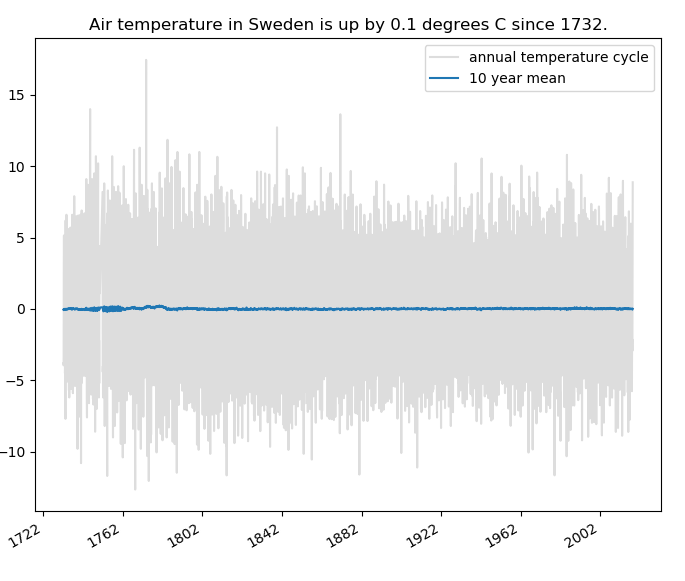
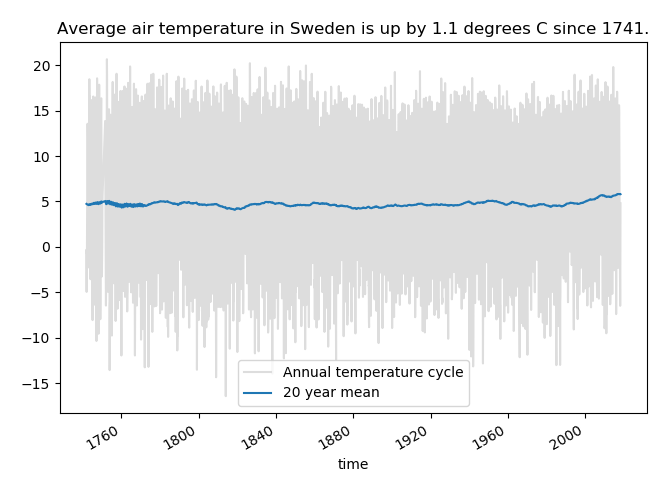
Adjust temperature based on altitude and latitude
Before adjustment calculations it looked like temperature had been going
down in the last 30 decades in Sweden, but now it's clearer that that is
not the case.

diff --git a/climate_check.py b/climate_check.py
@@ -1,4 +1,5 @@
 #!/usr/bin/env python3
+# -*- coding:utf-8 -*-
 
 import argparse
 import calendar
@@ -10,6 +11,7 @@ from matplotlib.ticker import FuncFormatter
 import os
 import numpy as np
 import pandas as pd
+from sklearn.linear_model import LinearRegression
 import requests
 from urllib.request import urlretrieve
 
@@ -17,14 +19,10 @@ from urllib.request import urlretrieve
 data_path = 'smhi_data/'
 smhi_stations_url = 'https://opendata-download-metobs.smhi.se/api/version/1.0/parameter/22.json'
 banner = '''
-Climate check v0.2 using SMHI air temperature data.
+Climate check v0.3 using SMHI air temperature data.
 
   This check might be considered unscientific as I am only using Swedish air temperature,
   not world-wide air and ocean temperatures.
-
-  In the annual cycle plot I do not account for variations in weather station placements.
-  Some will be placed in high altitude, some way up north, some way down south. This graph
-  needs more work.
 
   On the other hand, we can be pretty sure it hasn't been tampered with, as whistle
   blower and 2014 U.S. Department of Commerce Gold Medal winner John Bates exposed
@@ -58,24 +56,66 @@ def download_data():
 
 
 def load_smhi_csv(fn):
-    '''Load CSV temperature data in SMHI's format. The format is not very specific, so using brute force.'''
+    '''Load single CSV, containing historical temperature data for a single station, in SMHI's
+       format. The format is not very specific, so using brute force.
+
+       This function returns the station name, its historical temperatures and some meta data,
+       such as altitude, latitude and longitude.
+       '''
     lines = open(fn, encoding='utf-8-sig').read().splitlines()
     location = lines[1].split(';')[0] # name of place on second row, first column
+    altitude = latitude = longitude = None
+    prevline = ''
     for line in lines[3:]:
         cols = line.split(';')
         try:
+            if 'longitud' in prevline.lower():
+                altitude,latitude,longitude = [float(c) for c in cols[-3:]]
             time,temp = cols[0], cols[3]
             if not time and not temp:
                 continue # just ignore missing data points
             date,_,_ = time.partition(' ') # pick date
+            temp = float(temp)
             times.append(date)
-            temps.append(float(temp))
+            temps.append(temp)
         except Exception as e:
             times = []
             temps = []
+        prevline = line
     times = pd.DatetimeIndex(times).tz_localize('Europe/Stockholm', ambiguous=True)
     df = pd.DataFrame({'temp':temps}, index=times)
-    return location, df
+    return { 'station': location,
+             'temperature': df,
+             'altitude': altitude,
+             'latitude': latitude,
+             'longitude': longitude, }
+
+
+def largest_consecutive_block(ser):
+    sparse = ser.to_sparse()
+    block_locs = list(zip(sparse.sp_index.blocs, sparse.sp_index.blengths))
+    if not block_locs:
+        return ser.iloc[:0]
+    largest = max(block_locs, key=lambda e:e[1])
+    i,l = largest
+    return ser.iloc[i:(i+l-1)]
+
+
+def pos_adjust_temp(df, pos_corr):
+    '''Adjust temperatures based on linear regression of altitude and latitude.'''
+    reg = LinearRegression()
+    reg.fit(pos_corr[['altitude','latitude']], pos_corr['avg_temp'])
+    c_altitude,c_latitude = reg.coef_
+    c_altitude = min(0.0, c_altitude) # altitude correlates negatively, or not at all
+    c_latitude = min(0.0, c_latitude) # latitude correlates negatively, or not at all
+    adj_temp = df['temp'].copy()
+    avg_alt = df['altitude'].mean()
+    avg_lat = df['latitude'].mean()
+    # remove the correlation, so when there are more stations in the north, the temperature
+    # will be adjusted upwards, and vice versa
+    adj_temp -= (df['altitude']-avg_alt) * c_altitude
+    adj_temp -= (df['latitude']-avg_lat) * c_latitude
+    return adj_temp
 
 
 def load_data(options):
@@ -87,20 +127,37 @@ def load_data(options):
     total = pd.DataFrame(index=months) # the combined data for all measurements
     total['temp'] = 0.0
     total['tempnum'] = 0
+    total['altitude'] = 0.0
+    total['latitude'] = 0.0
+    total['longitude'] = 0.0
     total['diff'] = 0.0
     total['diffnum'] = 0
+    pos_corr = pd.DataFrame(columns=['avg_temp','altitude','latitude']) # adjust for altitude and latitude
     globs = glob(data_path+'*.csv')
     for i,fn in enumerate(globs):
         if options.quick_test and i > 50:
             break
-        title,df = load_smhi_csv(fn)
-        print('\r  %i %%  %s                 ' % (100*i//len(globs), title), end='', flush=True)
+        res = load_smhi_csv(fn)
+        title = res['station']
+        df = res['temperature']
+        print('\r  %i%%  %s                   ' % (100*(i+1)//len(globs), title), end='', flush=True)
         # absolute temperatures, for annual comparison
         total['raw'] = np.nan
         total['raw'] = df['temp']
         has_data = total['raw'] > -1e3
         total.loc[has_data, 'temp'] += total['raw']
         total.loc[has_data, 'tempnum'] += 1
+        # add meta data on positions where we have temperature data
+        total.loc[has_data, 'altitude'] += res['altitude']
+        total.loc[has_data, 'latitude'] += res['latitude']
+        total.loc[has_data, 'longitude'] += res['longitude']
+        # correct for altitude and latitude
+        longtemp = largest_consecutive_block(total['raw'])
+        if len(longtemp) >= 12: # need at least a year
+            l = len(longtemp)
+            l -= l%12 # average temperature requires an even number of years
+            longtemp = longtemp.iloc[:l]
+            pos_corr.loc[len(pos_corr)] = longtemp.mean(), res['altitude'], res['latitude']
         # add difference for total time comparison (as temperatures will vary north to south)
         total['raw'] = np.nan
         total['raw'] = df['temp'].diff()
@@ -109,17 +166,21 @@ def load_data(options):
         total.loc[has_data, 'diffnum'] += 1
     total['diff'] /= total['diffnum']
     total['temp'] /= total['tempnum']
+    total['altitude'] /= total['tempnum']
+    total['latitude'] /= total['tempnum']
+    total['longitude'] /= total['tempnum']
     print('\n  %i stations counted.' % len(globs))
+    total['adjusted_temp'] = pos_adjust_temp(total, pos_corr)
     return total
 
 
 def plot_total_time(df):
-    df = df.dropna(subset=['diff']).copy()
-    df['Annual temperature cycle'] = df['diff'] + df['temp'].mean()
-    df['10 year mean'] = df['10yr'] = df['Annual temperature cycle'].rolling(10*12).mean()
-    df = df.dropna(subset=['10yr'])
-    start_mean_temp = df['10yr'].iloc[0]
-    end_mean_temp = df['10yr'].iloc[-1]
+    df = df.dropna(subset=['adjusted_temp']).copy()
+    df['Annual temperature cycle'] = df['adjusted_temp']
+    df['20 year mean'] = df['20yr'] = df['Annual temperature cycle'].rolling(20*12).mean()
+    df = df.dropna(subset=['20yr'])
+    start_mean_temp = df['20yr'].iloc[0]
+    end_mean_temp = df['20yr'].iloc[-1]
     temp_diff = end_mean_temp - start_mean_temp
     date = str(df.index[0])
     date = date.split('-')[0]
@@ -132,11 +193,11 @@ def plot_total_time(df):
     cols = ['time'] + list(df.columns[1:])
     df.columns = cols
     df.plot(x='time', y='Annual temperature cycle', color='#dddddd', ax=ax)
-    df.plot(x='time', y='10 year mean', ax=ax)
+    df.plot(x='time', y='20 year mean', ax=ax)
 
 
 def plot_year_cycles(df):
-    df_dates = df.dropna(subset=['temp'])
+    df_dates = df.dropna(subset=['adjusted_temp'])
     next_year = pd.Timestamp(datetime.today()).tz_localize('Europe/Stockholm') + pd.Timedelta(days=365)
     next_decade = pd.Timestamp(datetime.today()).tz_localize('Europe/Stockholm') + pd.Timedelta(days=10*365)
     years = pd.date_range(df_dates.index[0], next_year, freq='YS')
@@ -154,12 +215,20 @@ def plot_year_cycles(df):
         df1 = df[(df.index>=from_decade) & (df.index<to_decade)].copy()
         df1['Month'] = [int(str(d).split('-')[1]) for d in df1.index]
         df2 = df1.groupby('Month').mean()
-        df2.plot(y='temp', ax=ax, legend=False, color=colors[i])
+        df2.plot(y='adjusted_temp', ax=ax, legend=False, color=colors[i])
     def func_format(x,pos):
         m = max(1, min(12, int(x)))
         return calendar.month_abbr[m]
     ax.xaxis.set_major_formatter(FuncFormatter(func_format))
     ax.xaxis.set_ticks(np.arange(1, 12+1))
+
+
+def plot_position(df):
+    fig,ax = plt.subplots(nrows=2)
+    ax1,ax2 = ax
+    fig.canvas.set_window_title('Average weather station position over time in Sweden')
+    df.plot(y='altitude', ax=ax1, label='Average station altitude (m above sea level)')
+    df.plot(y='latitude', ax=ax2, label='Average station latitude (60° N is near Uppsala)')
 
 
 def main():
@@ -177,6 +246,7 @@ def main():
 
     plot_total_time(df)
     plot_year_cycles(df)
+    # plot_position(df)
     plt.show()
 
 

diff --git a/README.md b/README.md
@@ -7,6 +7,8 @@ leaves out the last four months, as they are "unverified".
 This check might be considered unscientific as I am only using Swedish air temperature, not world-wide air
 and ocean temperatures.
 
+You will need to `pip install pandas sklearn`.
+
 
 ## Usage
 
@@ -19,7 +21,7 @@ downloading new data from SMHI:
   medel, 1 gång per månad
   Lufttemperatur - Övre Gränsö
 loading station data:
-  99 %  Söderarm A
+ 100%  Söderarm A
 971 stations counted.
 Temperature in Sweden is up by 0.1 degrees C since 1732.
 ```
@@ -28,7 +30,7 @@ Temperature in Sweden is up by 0.1 degrees C since 1732.
 
 ![climate-unchange](https://raw.githubusercontent.com/highfestiva/climate_check/master/readme-img/climate-unchange.png)
 
-Are you stumped too? If you find any bugs, let me know or add a pull request. Spread the word.
+If you find any bugs, let me know or add a pull request. Spread the word.
 
 
 ## Licence
